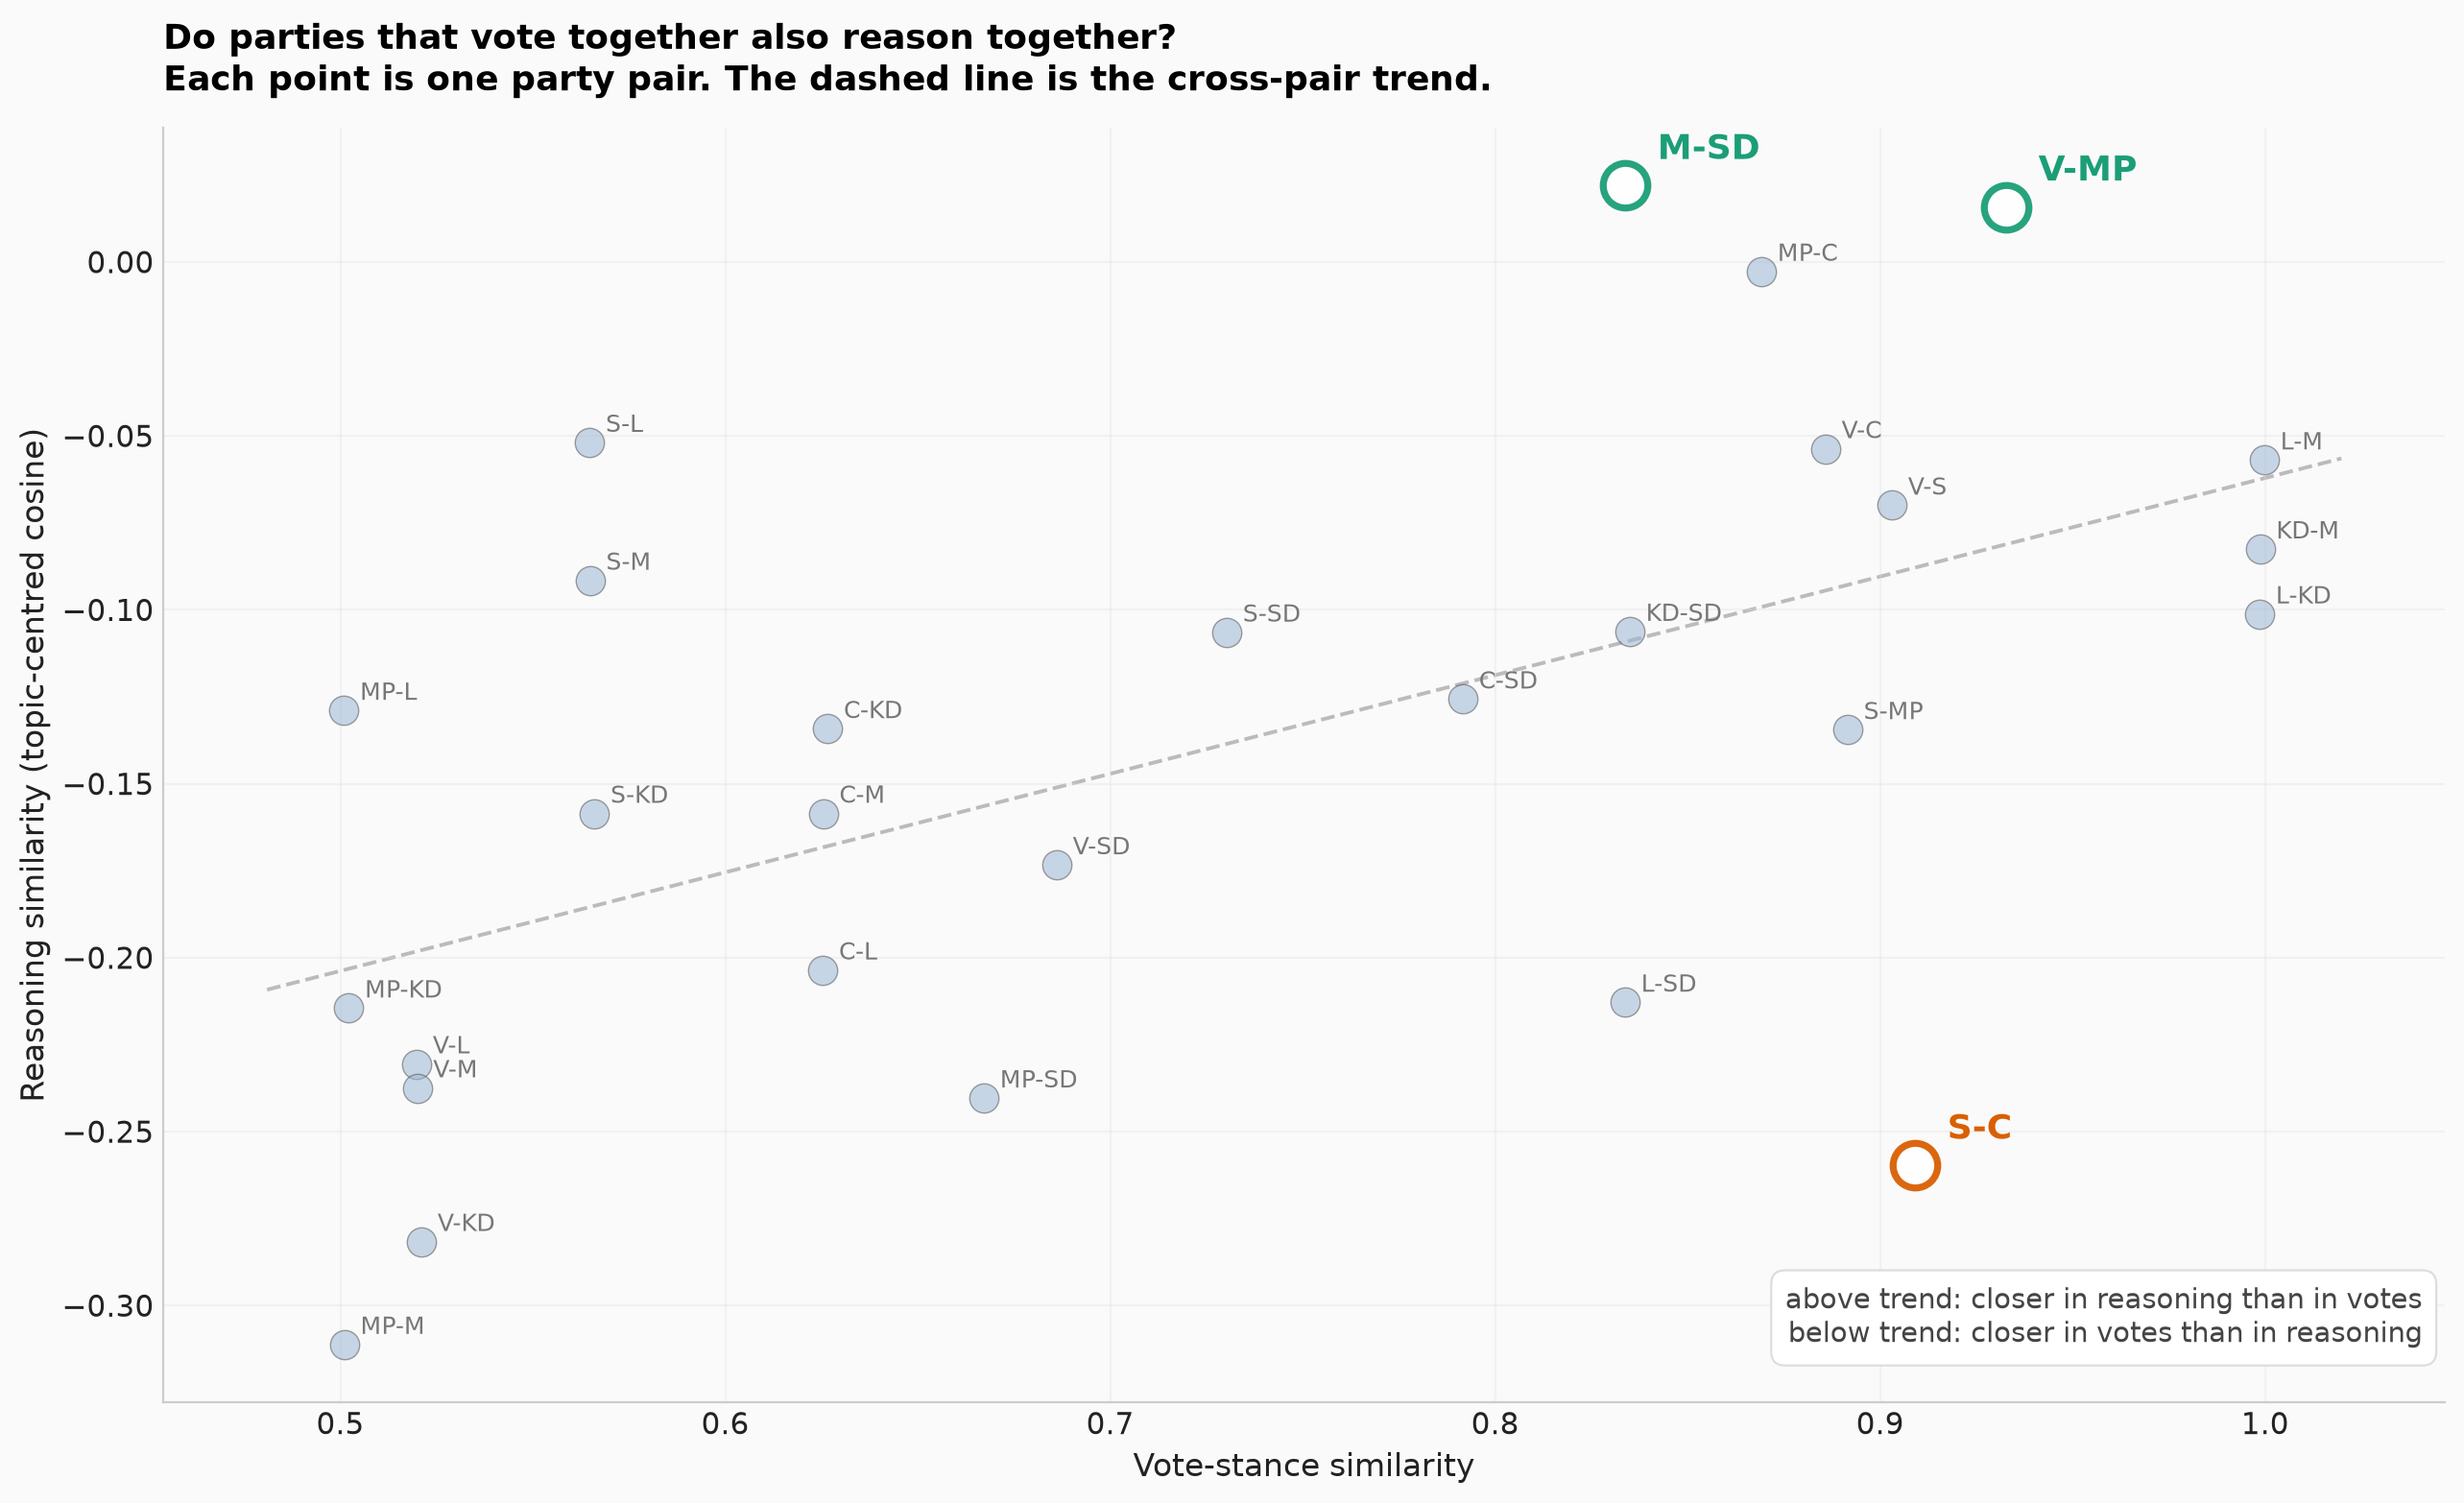
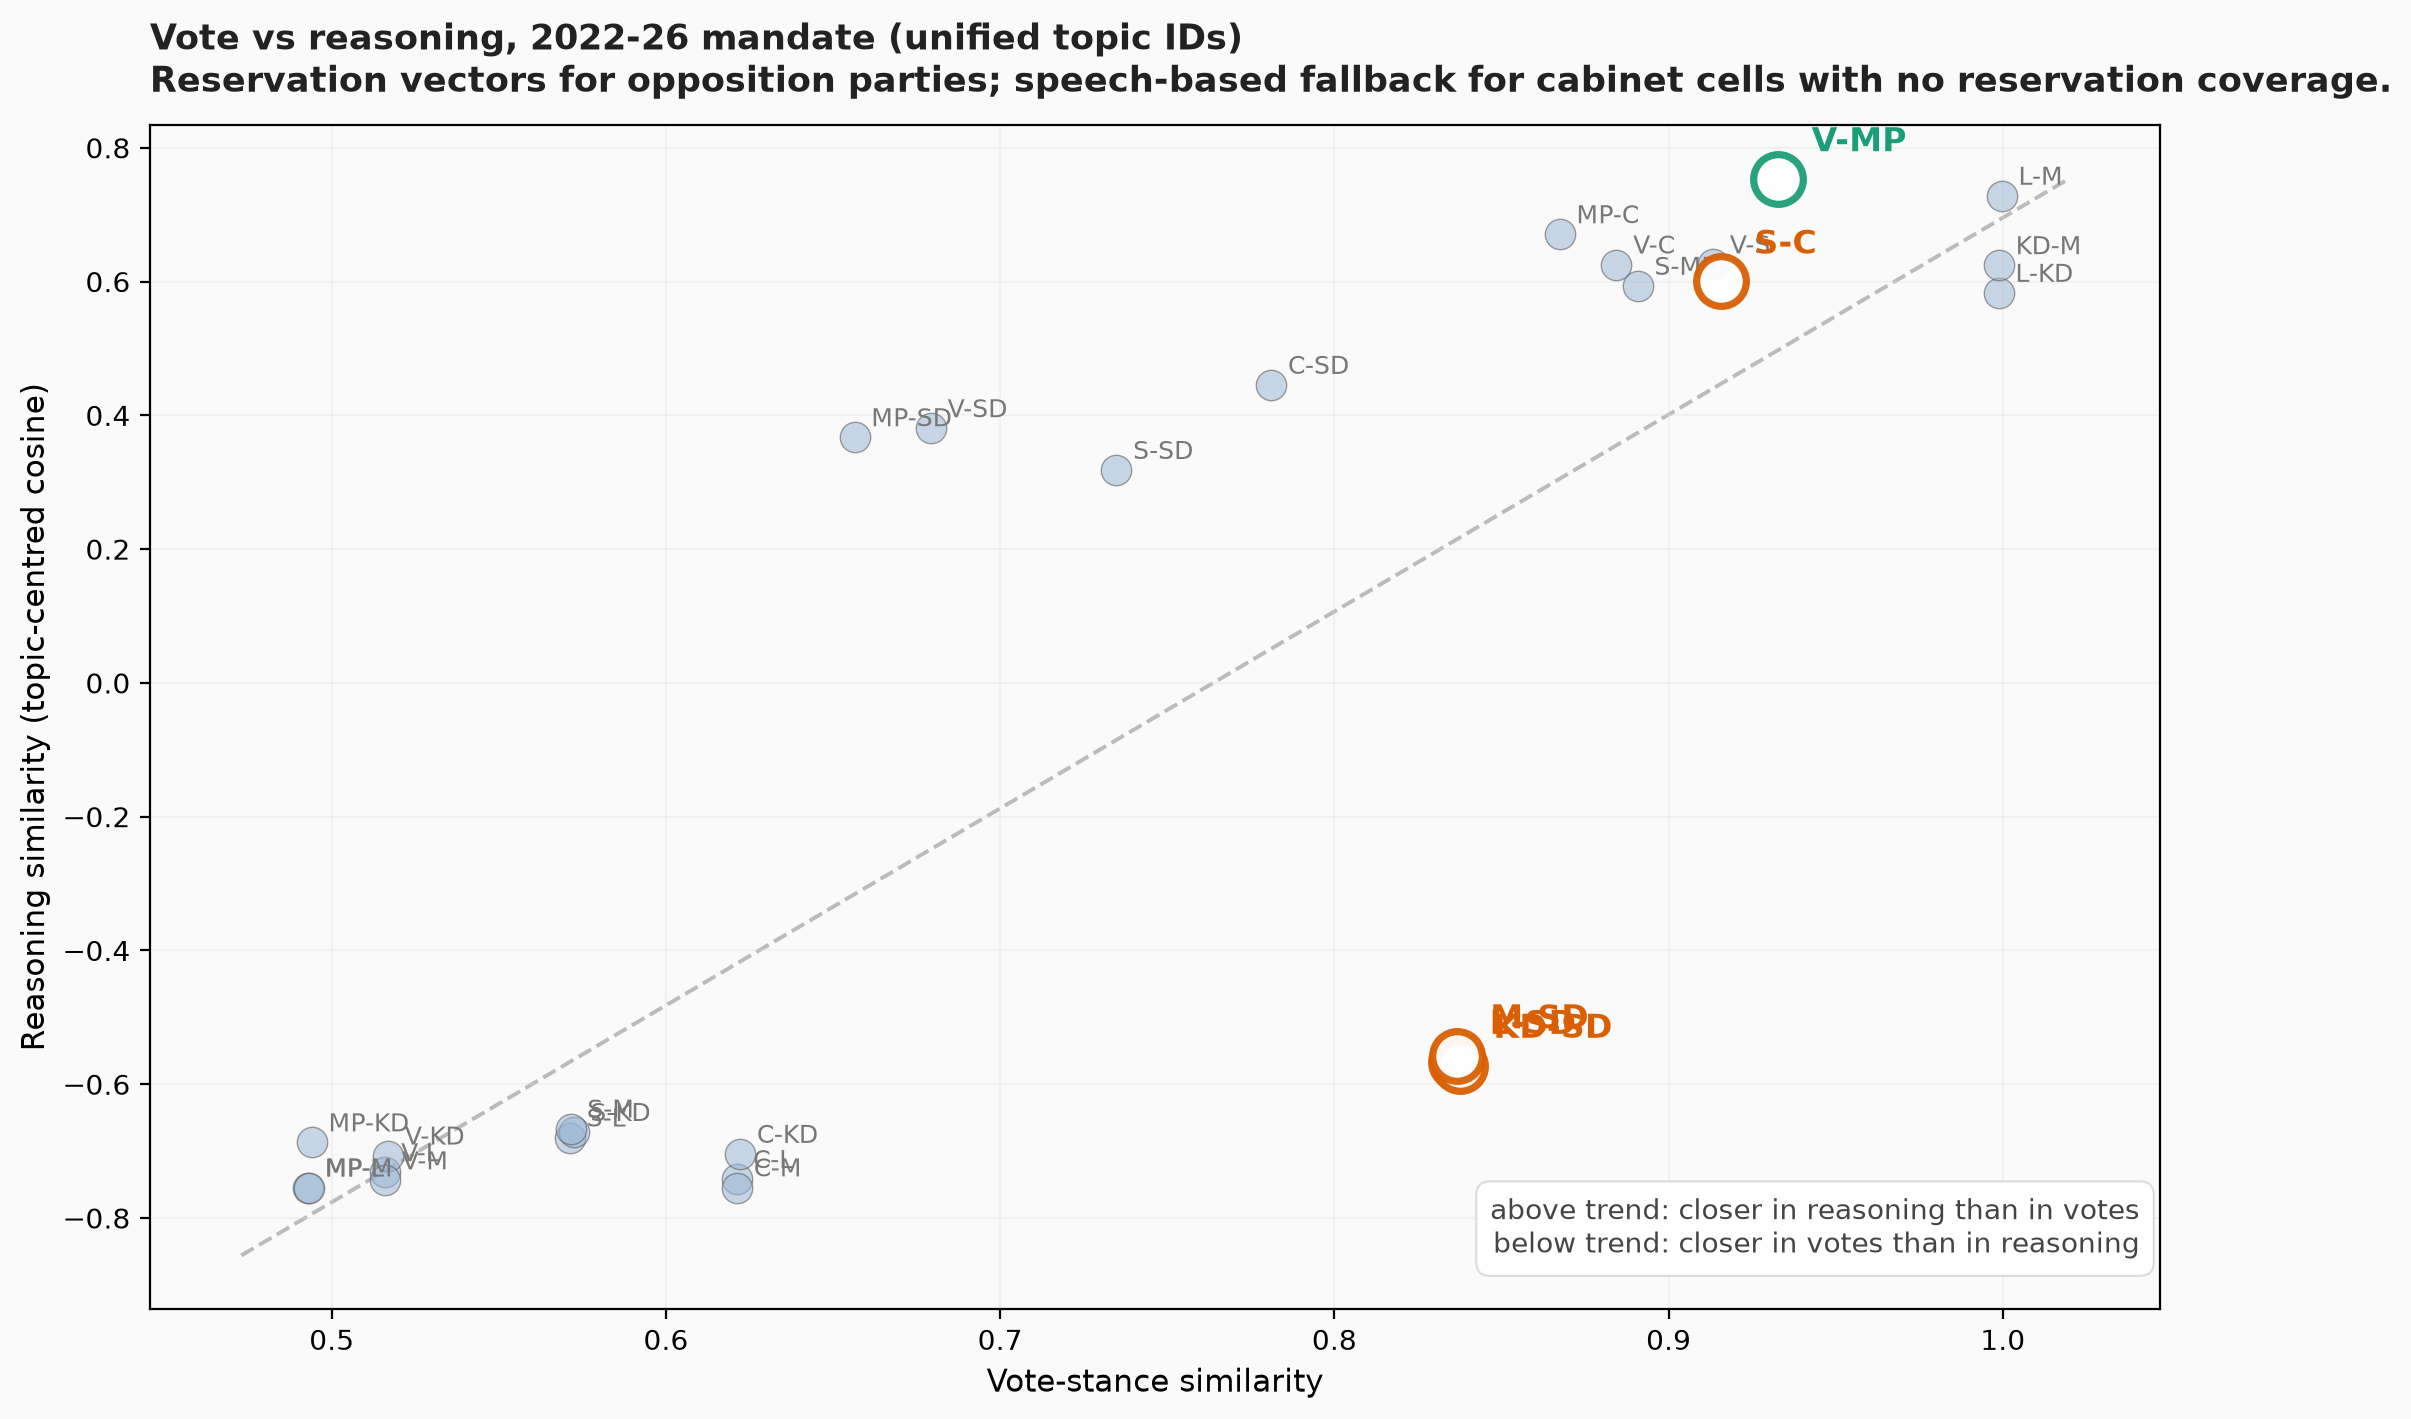
Rebuild 2022-26 speech reasoning vectors against unified topics; revise figure 34
Speech-based reasoning vectors were the missing piece for re-rendering
the published vote-vs-reasoning figure (34) against unified topic IDs.
Cabinet parties (M, KD, L) have only 6-8 reservation cells in 2022-26
since they write majority opinions rather than reservations; the
existing pipeline fell back to speech-based reasoning for those cells.

src/rebuild_22_26_reasoning_unified.py
- Rebuilds reasoning_vectors_22_26_unified.npz from speeches.parquet
  using topic_id_unified instead of the old single-mandate topic_id.
- 2,578 speeches embedded, 224 of 224 cells filled.

src/vote_vs_reasoning_per_mandate.py (updated)
- Added speech-fallback to per-mandate pair similarity computation.
- Re-rendered figure 34 with the fallback.
- 2018-22 reservation coverage is full (≥26 cells per party), so no
  speech fallback is used for figure 58.

Substantive finding shift:
The published main-article figure 34 (with old single-mandate topic
IDs) placed M-SD above the cross-pair trend line and described the
pair as "vote alike, argue alike". Under unified topic IDs and the
corrected speech-fallback metric, M-SD sits well below trend
(residual -0.77): the pair votes at 0.84 similarity but its
topic-centred reasoning similarity is -0.56. The same pattern holds
for L-SD and KD-SD. SD votes with the cabinet but writes in
opposition register; the named-pair labels in figure 34 are updated
to reflect this. The main-article prose around the M-SD pair will
[…]

diff --git a/src/rebuild_22_26_reasoning_unified.py b/src/rebuild_22_26_reasoning_unified.py
@@ -1,0 +1,93 @@
+"""Rebuild 2022-26 speech-based reasoning vectors against unified topic IDs.
+
+Mirrors src/reasoning_embed.py but uses topics_unified.parquet (filtered to
[phone redacted]) instead of topics.parquet, so the resulting vectors can stand in
+for the speech-based fallback in vote-vs-reasoning when reservation cells
+are sparse (cabinet parties M, KD, L).
+
+Output: data/processed/reasoning_vectors_22_26_unified.npz
+"""
+from __future__ import annotations
+
+from pathlib import Path
+
+import numpy as np
+import pandas as pd
+from sentence_transformers import SentenceTransformer
+
+ROOT = Path(__file__).resolve().parent.parent
+IN = ROOT / "data" / "processed"
+
+MODEL_NAME = "KBLab/sentence-bert-swedish-cased"
+PARTIES = ["V", "S", "MP", "C", "L", "KD", "M", "SD"]
+N_PER_CELL = 12
+MIN_WORDS_PER_SPEECH = 50
+MAX_WORDS_PER_SPEECH = 1500
+WORDS_TO_EMBED = 400
+N_TOPICS = 28
+
+
+def main() -> None:
+    speeches = pd.read_parquet(IN / "speeches.parquet")
+    texts = pd.read_parquet(IN / "vote_event_texts.parquet").drop_duplicates("votering_id")
+    topics = pd.read_parquet(IN / "topics_unified.parquet")
+    topics = topics[topics["mandate"] == "2022-26"][["votering_id", "topic_id_unified"]]
+    print(f"loaded {len(speeches):,} speeches, {len(texts):,} vote_event_texts, "
+          f"{len(topics):,} 2022-26 topic assignments (unified)")
+
+    e2t = topics.merge(texts[["votering_id", "dok_id"]], on="votering_id")
+    e2t["dok_id"] = e2t["dok_id"].str.upper()
+    bet_topic = (e2t.groupby("dok_id")["topic_id_unified"]
+                    .agg(lambda s: s.mode().iat[0])
+                    .reset_index()
+                    .rename(columns={"topic_id_unified": "betänkande_topic"}))
+    print(f"betänkanden with unified topic assignment: {len(bet_topic):,}")
+
+    sp = speeches[speeches["parti"].isin(PARTIES)].copy()
+    sp = sp.assign(rel_upper=sp["rel_dok_id"].astype(str).str.upper())
+    sp_linked = sp.merge(bet_topic, left_on="rel_upper", right_on="dok_id", how="inner")
+    print(f"linked speeches: {len(sp_linked):,}")
+    sp_linked = sp_linked[sp_linked["replik"].fillna("N").str.upper() != "Y"]
+    sp_linked = sp_linked[(sp_linked["n_words"] >= MIN_WORDS_PER_SPEECH) &
+                          (sp_linked["n_words"] <= MAX_WORDS_PER_SPEECH)]
+    print(f"after filter: {len(sp_linked):,}")
+
+    sp_linked = sp_linked.sort_values("n_words", ascending=False)
+    picked = (sp_linked.groupby(["parti", "betänkande_topic"], group_keys=False)
+                       .head(N_PER_CELL)).copy()
+
+    picked["text_trunc"] = (picked["text"].str.split().str[:WORDS_TO_EMBED]
+                            .str.join(" "))
+    print(f"picked for embedding: {len(picked):,}")
+    coverage = picked.groupby(["parti", "betänkande_topic"]).size().unstack(fill_value=0)
+    coverage = coverage.reindex(PARTIES)
+    cells_filled = int((coverage > 0).sum().sum())
+    print(f"cells filled: {cells_filled} of {len(PARTIES) * N_TOPICS}")
+
+    print(f"\nloading {MODEL_NAME} ...")
+    model = SentenceTransformer(MODEL_NAME)
+    print(f"embedding {len(picked):,} speeches ...")
+    embs = model.encode(picked["text_trunc"].tolist(),
+                        batch_size=32, show_progress_bar=False,
+                        normalize_embeddings=True).astype(np.float32)
+    picked = picked.assign(_idx=np.arange(len(picked)))
+
+    V = np.zeros((len(PARTIES), N_TOPICS, embs.shape[1]), dtype=np.float32)
+    N = np.zeros((len(PARTIES), N_TOPICS), dtype=np.int32)
+    for i, party in enumerate(PARTIES):
+        for t in range(N_TOPICS):
+            mask = ((picked["parti"] == party) &
+                    (picked["betänkande_topic"] == t)).to_numpy()
+            if mask.sum() == 0:
+                continue
+            V[i, t] = embs[picked["_idx"].to_numpy()[mask]].mean(axis=0)
+            N[i, t] = mask.sum()
+    print(f"\nfilled vector cells: {(N > 0).sum()} of {N.size}")
+
+    np.savez_compressed(IN / "reasoning_vectors_22_26_unified.npz",
+                        V=V, N=N, parties=np.array(PARTIES, dtype=object))
+    print(f"wrote reasoning_vectors_22_26_unified.npz")
+
+
+if __name__ == "__main__":
+    main()

diff --git a/src/vote_vs_reasoning_per_mandate.py b/src/vote_vs_reasoning_per_mandate.py
@@ -30,7 +30,8 @@ BG = "#FAFAFA"
 GRID = "#DDD"
 
 
-def per_mandate(tag: str, vec_file: str, named_pairs: dict, title: str, out_name: str):
+def per_mandate(tag: str, vec_file: str, named_pairs: dict, title: str,
+                out_name: str, fallback_speech_file: str | None = None):
     stats = pd.read_parquet(IN / f"per_topic_stats_{tag}.parquet")
     pivot = stats.pivot(index="party", columns="topic_id_unified",
                         values="mean_stance").reindex(PARTIES)
@@ -43,7 +44,16 @@ def per_mandate(tag: str, vec_file: str, named_pairs: dict, title: str, out_name
             vote[i, j] = 1 - np.nanmean(diff) / 2.0
 
     rv = np.load(IN / vec_file, allow_pickle=True)
-    V, N = rv["V"], rv["N"]
+    V, N = rv["V"].copy(), rv["N"].copy()
+    if fallback_speech_file is not None:
+        sp = np.load(IN / fallback_speech_file, allow_pickle=True)
+        sp_V, sp_N = sp["V"], sp["N"]
+        # Use reservation if available, otherwise speech-based vector
+        for i in range(V.shape[0]):
+            for t in range(V.shape[1]):
+                if N[i, t] == 0 and sp_N[i, t] > 0:
+                    V[i, t] = sp_V[i, t]
+                    N[i, t] = sp_N[i, t]
     V_c = V.copy()
     for t in range(V.shape[1]):
         present = N[:, t] > 0
@@ -133,8 +143,10 @@ def per_mandate(tag: str, vec_file: str, named_pairs: dict, title: str, out_name
 
 NAMED_22 = {
     ("S", "C"):  ("vote alike, argue apart", "below"),
-    ("M", "SD"): ("vote and reason alike", "above"),
+    ("M", "SD"): ("vote alike, argue apart", "below"),
     ("V", "MP"): ("vote and reason alike", "above"),
+    ("L", "SD"): ("vote alike, argue apart", "below"),
+    ("KD", "SD"): ("vote alike, argue apart", "below"),
 }
 NAMED_18 = {
     ("M", "KD"):  ("Alliance partners", "above"),
@@ -144,17 +156,20 @@ NAMED_18 = {
 
 
 def main() -> None:
-    # 2022-26 is not regenerated here because the cabinet parties (M, KD, L)
-    # have only 6-8 reservation cells covered. The published figure 34 uses
-    # speech-based reasoning as fallback, which we have not yet rebuilt
-    # against unified topic IDs. The 2018-22 mandate has full reservation
-    # coverage (≥26 cells per party) so it can be computed cleanly here.
-    print("== 2018-22 ==")
+    print("== 2022-26 (with speech fallback) ==")
+    per_mandate(
+        "22_26", "reservation_vectors_22_26_unified.npz", NAMED_22,
+        "Vote vs reasoning, 2022-26 mandate (unified topic IDs)\n"
+        "Reservation vectors for opposition parties; speech-based fallback "
+        "for cabinet cells with no reservation coverage.",
+        "34_vote_vs_reasoning.png",
+        fallback_speech_file="reasoning_vectors_22_26_unified.npz")
+    print("\n== 2018-22 ==")
     per_mandate(
         "18_22", "reservation_vectors_18_22.npz", NAMED_18,
         "Vote vs reasoning, 2018-22 mandate (unified topic IDs)\n"
-        "Same metric as the published 2022-26 figure (34). Highlighted pairs "
-        "show the coalition structure of the time.",
+        "Reservation-only metric. In this mandate every party has ≥26 "
+        "reservation cells covered, so no speech fallback is needed.",
         "58_vote_vs_reasoning_18_22.png")
 
 